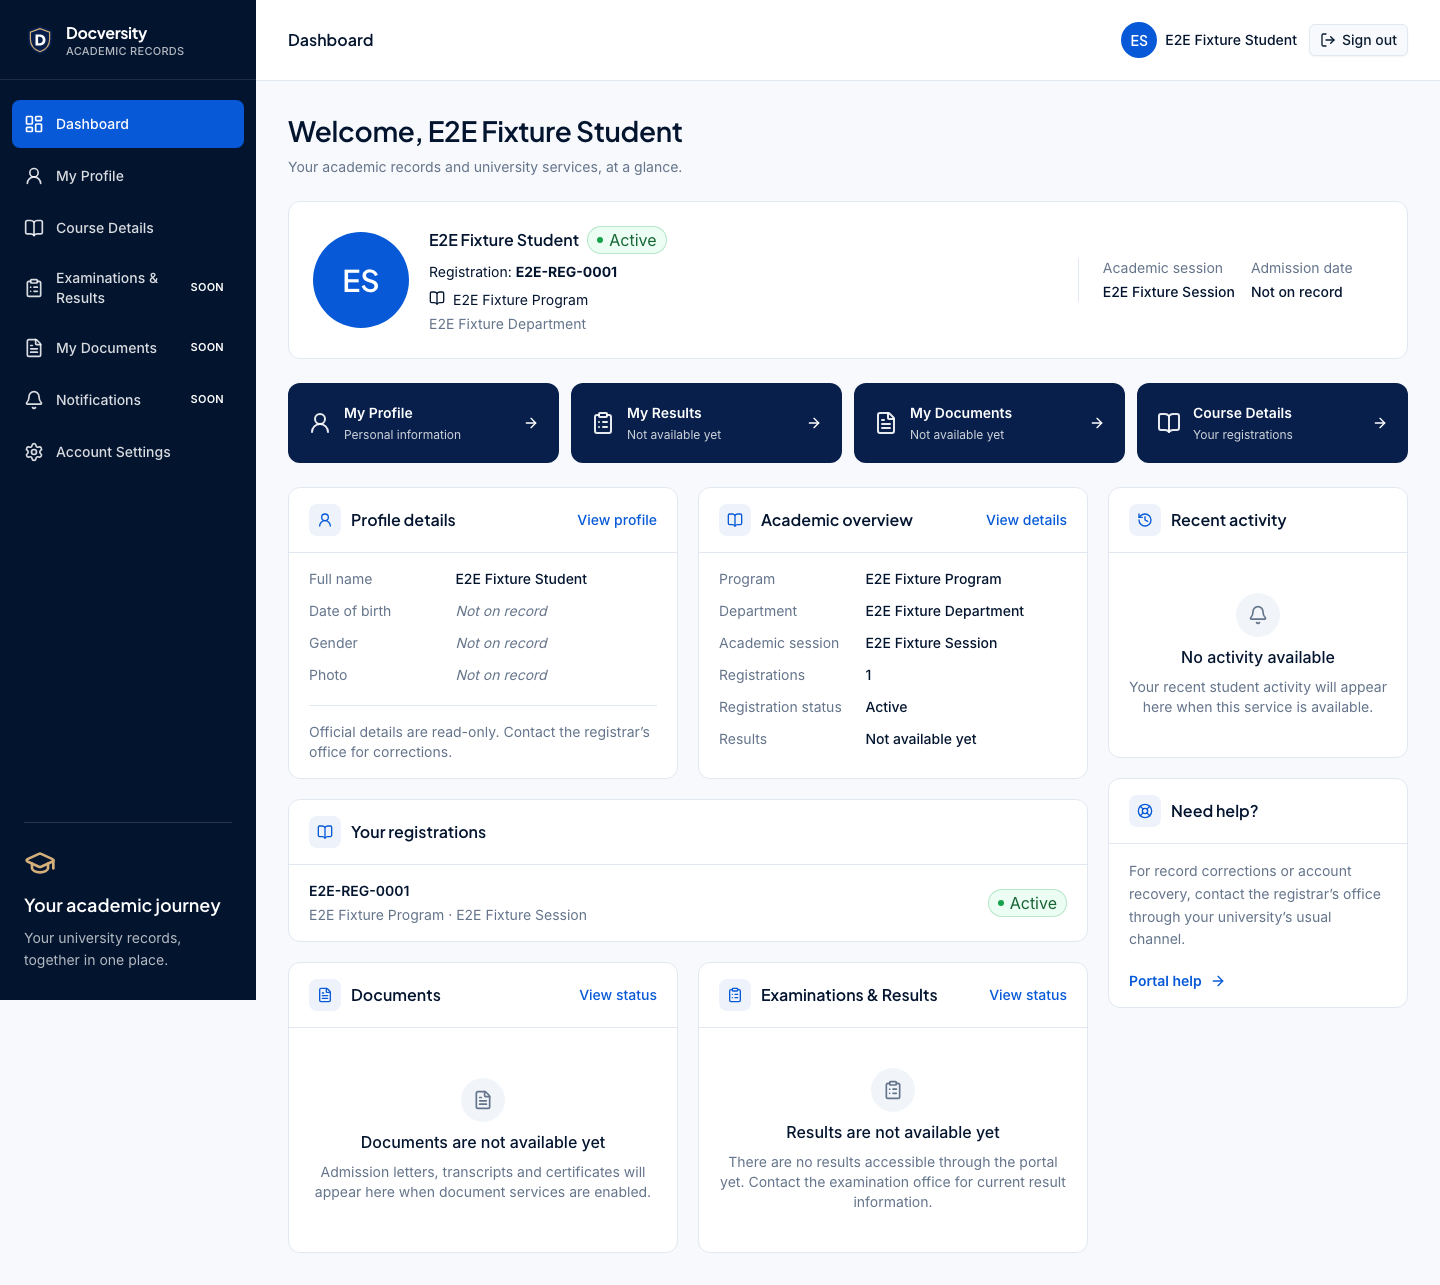
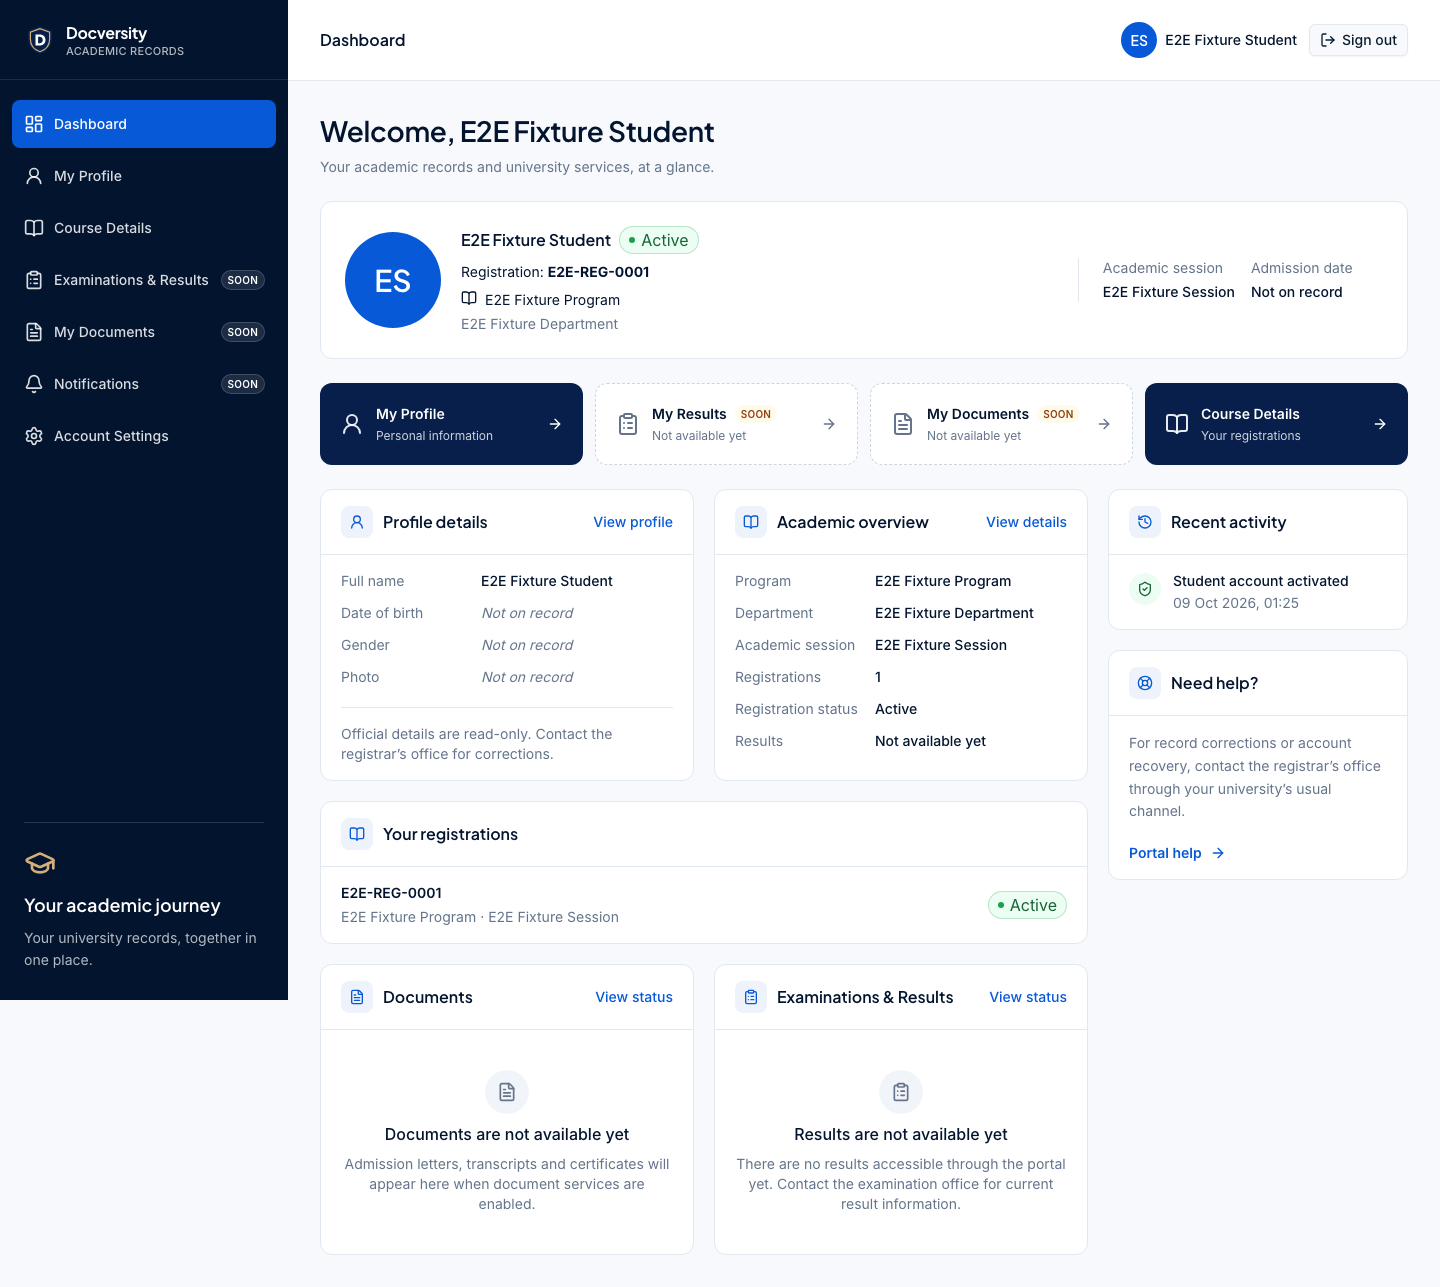
feat(web): mark planned quick actions, compact sidebar badges, real activity event
- Results/Documents quick actions use a muted dashed tile with a "Soon"
  label; working actions stay solid navy.
- Smaller "Soon" badges and an 18rem sidebar (matching the mobile drawer)
  keep every navigation label on one line; verified at 1024/1280/1440px
  and in the 390px drawer.
- Recent activity shows the stored account activation timestamp as the
  only event; without one, the existing empty state is kept.
- Fixed two contrast issues axe reported during this pass.

diff --git a/apps/web/src/features/student-portal/student-overview.tsx b/apps/web/src/features/student-portal/student-overview.tsx
@@ -8,40 +8,52 @@ import {
   FileTextIcon,
   HistoryIcon,
   LifeBuoyIcon,
+  ShieldCheckIcon,
   UserRoundIcon,
 } from 'lucide-react';
 import { RecordStatus, STATUS_LABELS } from '@/components/data/status';
-import { formatDate } from '@/lib/format';
+import { cn } from '@docversity/ui';
+import { formatDate, formatDateTime } from '@/lib/format';
 import { primaryRegistration, type StudentNavHref } from './nav';
-import { DetailList, PortalCard, PortalEmptyState } from './portal-ui';
+import { DetailList, PortalCard, PortalEmptyState, SoonBadge } from './portal-ui';
 import { StudentAvatar } from './student-avatar';
 
 const ACTIONS = [
   {
     href: '/student/profile',
     label: 'My Profile',
+    available: true,
     detail: 'Personal information',
     icon: UserRoundIcon,
   },
   {
     href: '/student/results',
     label: 'My Results',
+    available: false,
     detail: 'Not available yet',
     icon: ClipboardListIcon,
   },
   {
     href: '/student/documents',
     label: 'My Documents',
+    available: false,
     detail: 'Not available yet',
     icon: FileTextIcon,
   },
   {
     href: '/student/course',
     label: 'Course Details',
+    available: true,
     detail: 'Your registrations',
     icon: BookOpenIcon,
   },
-] satisfies { href: StudentNavHref; label: string; detail: string; icon: typeof UserRoundIcon }[];
+] satisfies {
+  href: StudentNavHref;
+  label: string;
+  available: boolean;
+  detail: string;
+  icon: typeof UserRoundIcon;
+}[];
 
 export function StudentOverview({ me }: { me: StudentMe }) {
   const { student, registrations } = me;
@@ -107,20 +119,44 @@ export function StudentOverview({ me }: { me: StudentMe }) {
         </dl>
       </section>
       <nav aria-label="Quick actions" className="grid grid-cols-2 gap-3 xl:grid-cols-4">
-        {ACTIONS.map(({ href, label, detail, icon: Icon }) => (
+        {ACTIONS.map(({ href, label, available, detail, icon: Icon }) => (
           <Link
             key={href}
             href={href}
-            className="group flex items-center gap-3 rounded-xl bg-navy-900 p-4 text-white transition-colors hover:bg-brand sm:p-5"
+            className={cn(
+              'group flex items-center gap-3 rounded-xl p-4 transition-colors sm:p-5',
+              available
+                ? 'bg-navy-900 text-white hover:bg-brand'
+                : 'border border-dashed border-border-strong bg-card text-navy-950 hover:bg-secondary',
+            )}
           >
-            <Icon aria-hidden="true" className="size-6 shrink-0 text-white/90" />
+            <Icon
+              aria-hidden="true"
+              className={cn(
+                'size-6 shrink-0',
+                available ? 'text-white/90' : 'text-muted-foreground',
+              )}
+            />
             <span className="min-w-0">
-              <span className="block text-sm font-semibold">{label}</span>
-              <span className="mt-1 block text-xs text-white/80">{detail}</span>
+              <span className="flex flex-wrap items-center gap-x-2 gap-y-1 text-sm font-semibold">
+                {label}
+                {!available && <SoonBadge />}
+              </span>
+              <span
+                className={cn(
+                  'mt-1 block text-xs',
+                  available ? 'text-white/80' : 'text-muted-foreground',
+                )}
+              >
+                {detail}
+              </span>
             </span>
             <ArrowRightIcon
               aria-hidden="true"
-              className="ml-auto hidden size-4 shrink-0 sm:block"
+              className={cn(
+                'ml-auto hidden size-4 shrink-0 sm:block',
+                !available && 'text-muted-foreground',
+              )}
             />
           </Link>
         ))}
@@ -220,11 +256,30 @@ export function StudentOverview({ me }: { me: StudentMe }) {
         </div>
         <div className="flex flex-col gap-5">
           <PortalCard title="Recent activity" icon={HistoryIcon}>
-            <PortalEmptyState
-              icon={BellIcon}
-              title="No activity available"
-              description="Your recent student activity will appear here when this service is available."
-            />
+            {me.account.activatedAt ? (
+              // The only student-visible event recorded today: the account activation itself.
+              <ol aria-label="Recent activity" className="flex flex-col gap-4">
+                <li className="flex gap-3">
+                  <span className="mt-0.5 flex size-8 shrink-0 items-center justify-center rounded-full bg-success-soft text-success-text">
+                    <ShieldCheckIcon aria-hidden="true" className="size-4" />
+                  </span>
+                  <div className="min-w-0 text-sm">
+                    <p className="font-medium text-navy-950">Student account activated</p>
+                    <p className="mt-0.5 text-muted-foreground">
+                      <time dateTime={me.account.activatedAt}>
+                        {formatDateTime(me.account.activatedAt)}
+                      </time>
+                    </p>
+                  </div>
+                </li>
+              </ol>
+            ) : (
+              <PortalEmptyState
+                icon={BellIcon}
+                title="No activity available"
+                description="Your recent student activity will appear here when this service is available."
+              />
+            )}
           </PortalCard>
           <PortalCard title="Need help?" icon={LifeBuoyIcon}>
             <p className="text-sm leading-relaxed text-muted-foreground">

diff --git a/apps/web/src/features/student-portal/student-shell.tsx b/apps/web/src/features/student-portal/student-shell.tsx
@@ -33,13 +33,13 @@ function StudentNavigation({ onNavigate }: { onNavigate?: () => void }) {
           onClick={onNavigate}
           aria-current={isStudentNavActive(pathname, href) ? 'page' : undefined}
           className={cn(
-            'flex min-h-12 items-center gap-3 rounded-lg px-3 py-3 text-sm font-medium text-white/85 transition-colors hover:bg-white/10 hover:text-white focus-visible:outline-2 focus-visible:outline-offset-2 focus-visible:outline-white',
+            'flex min-h-12 items-center gap-2.5 rounded-lg px-3 py-3 text-sm font-medium text-white/85 transition-colors hover:bg-white/10 hover:text-white focus-visible:outline-2 focus-visible:outline-offset-2 focus-visible:outline-white',
             isStudentNavActive(pathname, href) && 'bg-brand text-white hover:bg-brand',
           )}
         >
           <Icon aria-hidden="true" className="size-5 shrink-0" />
-          <span className="min-w-0 flex-1">{label}</span>
-          {!available && <SoonBadge />}
+          <span className="min-w-0 flex-1 truncate">{label}</span>
+          {!available && <SoonBadge onDark />}
         </Link>
       ))}
     </nav>
@@ -68,7 +68,7 @@ export function StudentShell({ name, children }: { name: string; children: React
       });
   };
   return (
-    <div className="min-h-screen bg-background lg:pl-64">
+    <div className="min-h-screen bg-background lg:pl-72">
       <a
         href="#student-main"
         className="sr-only z-50 focus:not-sr-only focus:fixed focus:m-2 focus:rounded focus:bg-card focus:p-3"
@@ -77,7 +77,7 @@ export function StudentShell({ name, children }: { name: string; children: React
       </a>
       <aside
         aria-label="Student navigation"
-        className="fixed inset-y-0 left-0 hidden w-64 flex-col bg-navy-950 text-white lg:flex"
+        className="fixed inset-y-0 left-0 hidden w-72 flex-col bg-navy-950 text-white lg:flex"
       >
         <Link
           href="/student"

diff --git a/apps/web/test/student-dashboard.test.tsx b/apps/web/test/student-dashboard.test.tsx
@@ -52,8 +52,23 @@ describe('student dashboard and read-only pages', () => {
     expect(screen.getByRole('navigation', { name: 'Quick actions' })).toBeInTheDocument();
     expect(screen.getByText('Results are not available yet')).toBeInTheDocument();
     expect(screen.getByText('Documents are not available yet')).toBeInTheDocument();
-    expect(screen.getByText('No activity available')).toBeInTheDocument();
+    // Recent activity lists exactly one real event: the stored activation timestamp.
+    const activity = screen.getByRole('list', { name: 'Recent activity' });
+    expect(activity.querySelectorAll('li')).toHaveLength(1);
+    expect(activity).toHaveTextContent('Student account activated');
+    expect(activity.querySelector('time')).toHaveAttribute('datetime', me.account.activatedAt);
+    expect(screen.queryByText('No activity available')).not.toBeInTheDocument();
+    // Planned quick actions carry a "Soon" label; working ones do not.
+    expect(screen.getByRole('link', { name: /My Results.*Soon/ })).toBeInTheDocument();
+    expect(screen.getByRole('link', { name: /My Documents.*Soon/ })).toBeInTheDocument();
+    expect(screen.getByRole('link', { name: /My Profile/ })).not.toHaveTextContent('Soon');
     expect(screen.queryByText(/65%|Rahul|WhatsApp|SGPA|CGPA/)).not.toBeInTheDocument();
+  });
+
+  it('keeps the honest empty state when no activation timestamp is stored', () => {
+    render(<StudentOverview me={{ ...me, account: { ...me.account, activatedAt: '' } }} />);
+    expect(screen.getByText('No activity available')).toBeInTheDocument();
+    expect(screen.queryByText('Student account activated')).not.toBeInTheDocument();
   });
 
   it('handles no registrations and reports unavailable photos without fetching storage', () => {

diff --git a/apps/web/e2e/student-portal.spec.ts b/apps/web/e2e/student-portal.spec.ts
@@ -72,6 +72,15 @@ test('a student activates with a university code, sees only their own record, si
   ).toBeVisible();
   await expect(page.getByRole('heading', { name: fixture.registrationNumber })).toBeVisible();
   await expect(page.getByText('Not on record').first()).toBeVisible();
+  // Recent activity shows only the real activation event; planned modules are marked "Soon".
+  await expect(
+    page.getByRole('list', { name: 'Recent activity' }).getByText('Student account activated'),
+  ).toBeVisible();
+  await expect(
+    page
+      .getByRole('navigation', { name: 'Quick actions' })
+      .getByRole('link', { name: /My Results.*Soon/ }),
+  ).toBeVisible();
   await expectNoSeriousA11yViolations(page);
   await capture(page, 'student-home-desktop');
 

diff --git a/apps/web/src/features/student-portal/portal-ui.tsx b/apps/web/src/features/student-portal/portal-ui.tsx
@@ -97,9 +97,17 @@ export function PortalEmptyState({
   );
 }
 
-export function SoonBadge() {
+/** Compact "Soon" marker for planned modules. `onDark` is for the navy sidebar. */
+export function SoonBadge({ onDark = false }: { onDark?: boolean }) {
   return (
-    <span className="rounded-full bg-navy-950 px-2 py-0.5 text-[0.6875rem] font-semibold tracking-wide text-white uppercase">
+    <span
+      className={cn(
+        'shrink-0 rounded-full px-1.5 py-px text-[0.625rem] leading-4 font-semibold tracking-wide uppercase',
+        onDark
+          ? 'bg-white/10 text-white ring-1 ring-white/25'
+          : 'bg-warning-soft text-warning-text',
+      )}
+    >
       Soon
     </span>
   );

diff --git a/docs/development/phase-6.5-student-portal.md b/docs/development/phase-6.5-student-portal.md
@@ -13,7 +13,7 @@ The quality target is a dense, readable university workspace with accessible nav
 - Public home/header: Student Login, Activate Student Account and Staff Login; desktop/mobile access;
   explicit unavailability on public verification service cards and navigation.
 - `/student`: navy sidebar, student identity bar, overview, four quick links, profile/academic cards,
-  every real registration, results/documents unavailable states, activity unavailable state and help.
+  every real registration, results/documents unavailable states, recent activity and help.
 - `/student/profile`: read-only personal information; explicit missing DOB/photo; initials fallback.
 - `/student/course`: every registration's program, department, session, references and real dates.
 - `/student/settings`: account status, activation date and existing recovery instructions.
@@ -24,7 +24,7 @@ The quality target is a dense, readable university workspace with accessible nav
 initials; `StudentOverview` and the read-only student pages use only authenticated API fields.
 
 The API returns `hasPhoto`, not a photo URL/download endpoint. A stored photo is reported as on record
-with display unavailable; there is no arbitrary storage request. Results/documents/notifications/activity
+with display unavailable; there is no arbitrary storage request. Results/documents/notifications
 endpoints do not exist, so no counts, grades, PDFs, schedules, progress, staff audit feed, WhatsApp or fee
 payment controls are fabricated. The account screen does not promise working password editing.
 
@@ -76,6 +76,18 @@ activity/help rail, student-facing activity copy, sidebar badge contrast and aca
 Its final disposition was `ship` for that correction list. A separate documentation review confirmed
 incumbent theme/type consistency. Existing architecture summary drift (two shells, older public access
 copy) remains a context limitation; the implementation and this delivery note describe the student shell.
+
+## Review polish (before merge)
+
+- Quick actions: working actions (My Profile, Course Details) stay solid navy; planned ones (My Results,
+  My Documents) are white dashed tiles with a "Soon" label. Both still open their honest status pages.
+- Sidebar: a compact "Soon" badge and an 18rem sidebar (matching the mobile drawer) keep every label on
+  one line at 1024/1280/1440px and in the 390px drawer; no truncation.
+- Recent activity shows exactly one real event, "Student account activated", from `account.activatedAt`
+  (already returned by `GET /student/me`). Without a timestamp the existing empty state is shown. No other
+  events are listed and no staff audit data is used.
+- axe caught two contrast failures during this pass (muted tile caption, badge on the active blue row);
+  both were fixed, not suppressed.
 
 ## Phase boundary
 
